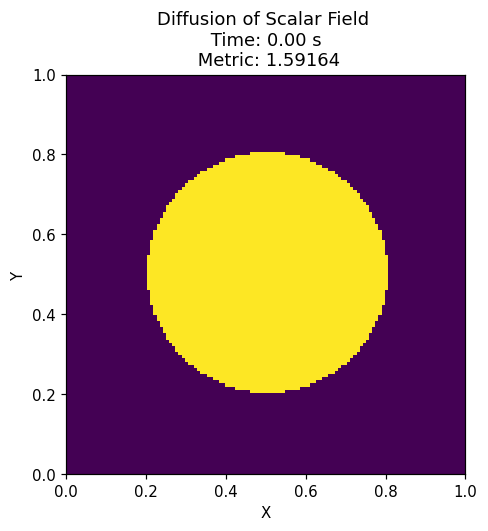
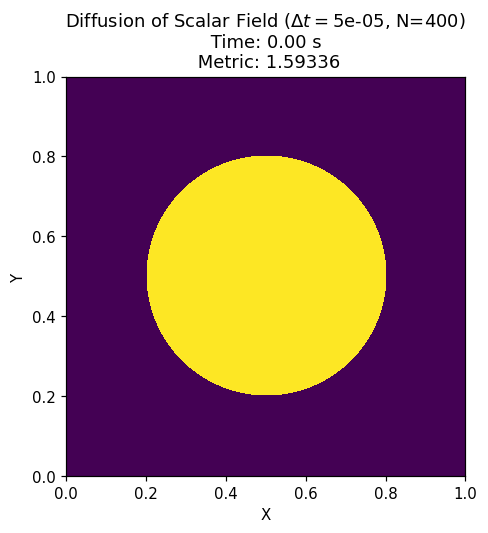
Lancement de simulations sur le RK3
2 simus réalisées sur le RK3. L'une a mis trop de temps. Synthèse des résultats sur le .ppt

diff --git a/program_RK.py b/program_RK.py
@@ -114,14 +114,16 @@ def plot_potential_field(phi, time, metric, **kwargs):
     ax.clear()
     ax.set_xlabel('X')
     ax.set_ylabel('Y')
-    ax.set_title(f'Diffusion of Scalar Field \n Time: {time:.2f} s \n Metric: {metric:.5f}')
+    ax.set_title(f'Diffusion of Scalar Field ($\Delta t=${delta_t}, N={N}) \n Time: {time:.2f} s \n Metric: {metric:.5f}')
     ax.imshow(phi, extent=(0, L, 0, L), origin='lower', cmap='viridis')
 
     if 'saveaspng' in kwargs.keys():
         plt.savefig(dirpath+"/outputs_program_RK/"+kwargs.get('saveaspng'), dpi=108, bbox_inches="tight")
+    plt.pause(1)
+    plt.close(fig)
 
 
-def simulation(N, delta_t, phi, T_comput:dt.timedelta=dt.timedelta(days=7)):
+def simulation(N, delta_t, phi, T_comput:dt.timedelta=dt.timedelta(days=7), showAndSave=True):
     """
     Function taking the parameter of the problem as time and space smpling csts N and dt.
     Takes the initial scalar field phi.
@@ -154,16 +156,18 @@ def simulation(N, delta_t, phi, T_comput:dt.timedelta=dt.timedelta(days=7)):
         metric = get_metric(phi)
         
 
-        if frame%2 == 0:
+        if frame%100 == 0:
             print(frame)
-            plot_potential_field(phi, time, metric, saveaspng=str(frame)+"_phi_field.png")
-            plt.pause(0.001)
+            if showAndSave:
+                plot_potential_field(phi, time, metric, saveaspng=str(frame)+"_phi_field.png")
+
             
 
         step_datetime = dt.datetime.now()
 
     if metric >= 3 :        
         print("Warning: The simulation stopped running because a divergence was detected (metric >= 3).")
+        print(f"\tParameters: (L, D, N, $\Delta t$)=({L}, {D}, {N}, {delta_t})")
         print("\tSimulation duration: "+str(step_datetime - start_datetime))
         print(f"\tVirtual stop time: {time:.2f} s")        
         print(f"\tVirtual stop frame: {frame}")
@@ -171,6 +175,7 @@ def simulation(N, delta_t, phi, T_comput:dt.timedelta=dt.timedelta(days=7)):
 
     elif step_datetime - start_datetime >= T_comput:
         print("Warning: The simulation stopped running because the max duration of simulation ("+str(T_comput)+") was reached.")
+        print(f"\tParameters: (L, D, N, $\Delta t$)=({L}, {D}, {N}, {delta_t})")
         print("\tSimulation duration: "+str(step_datetime - start_datetime))
         print(f"\tVirtual stop time: {time:.2f} s")
         print(f"\tVirtual stop frame: {frame}")
@@ -178,6 +183,7 @@ def simulation(N, delta_t, phi, T_comput:dt.timedelta=dt.timedelta(days=7)):
 
     else:
         print("Success: The simulation stopped running because the field was homogeneous enough (metric < 0.05).")
+        print(f"\tParameters: (L, D, N, $\Delta t$)=({L}, {D}, {N}, {delta_t})")
         print("\tSimulation duration: "+str(step_datetime - start_datetime))
         print(f"\tVirtual stop time: {time:.2f} s")        
         print(f"\tVirtual stop frame: {frame}")
@@ -201,8 +207,8 @@ L = 1.0     # Length of the (square shaped) domain (m)
 D = 0.001   # Diffusion coefficient
 
 # Initial Parameters of the simulation
-N = 128    # Number of steps for each space axis
-delta_t = 0.01   # Time step
+N = 400    # Number of steps for each space axis
+delta_t = 0.00005   # Time step
 
 # Put here the maximum time you want to spend on the computation.
 max_time_computation = dt.timedelta(hours=1)
@@ -218,5 +224,7 @@ u, v = set_velocity_field(L, N, X, Y)
 # Initial scalar field
 phi = set_initial_potential(X, Y)
 
+# Plot and save frames ?
+show_and_save = False
 
-total_time_passed = simulation(N, delta_t, phi, max_time_computation)
+total_time_passed = simulation(N, delta_t, phi, max_time_computation, show_and_save)
